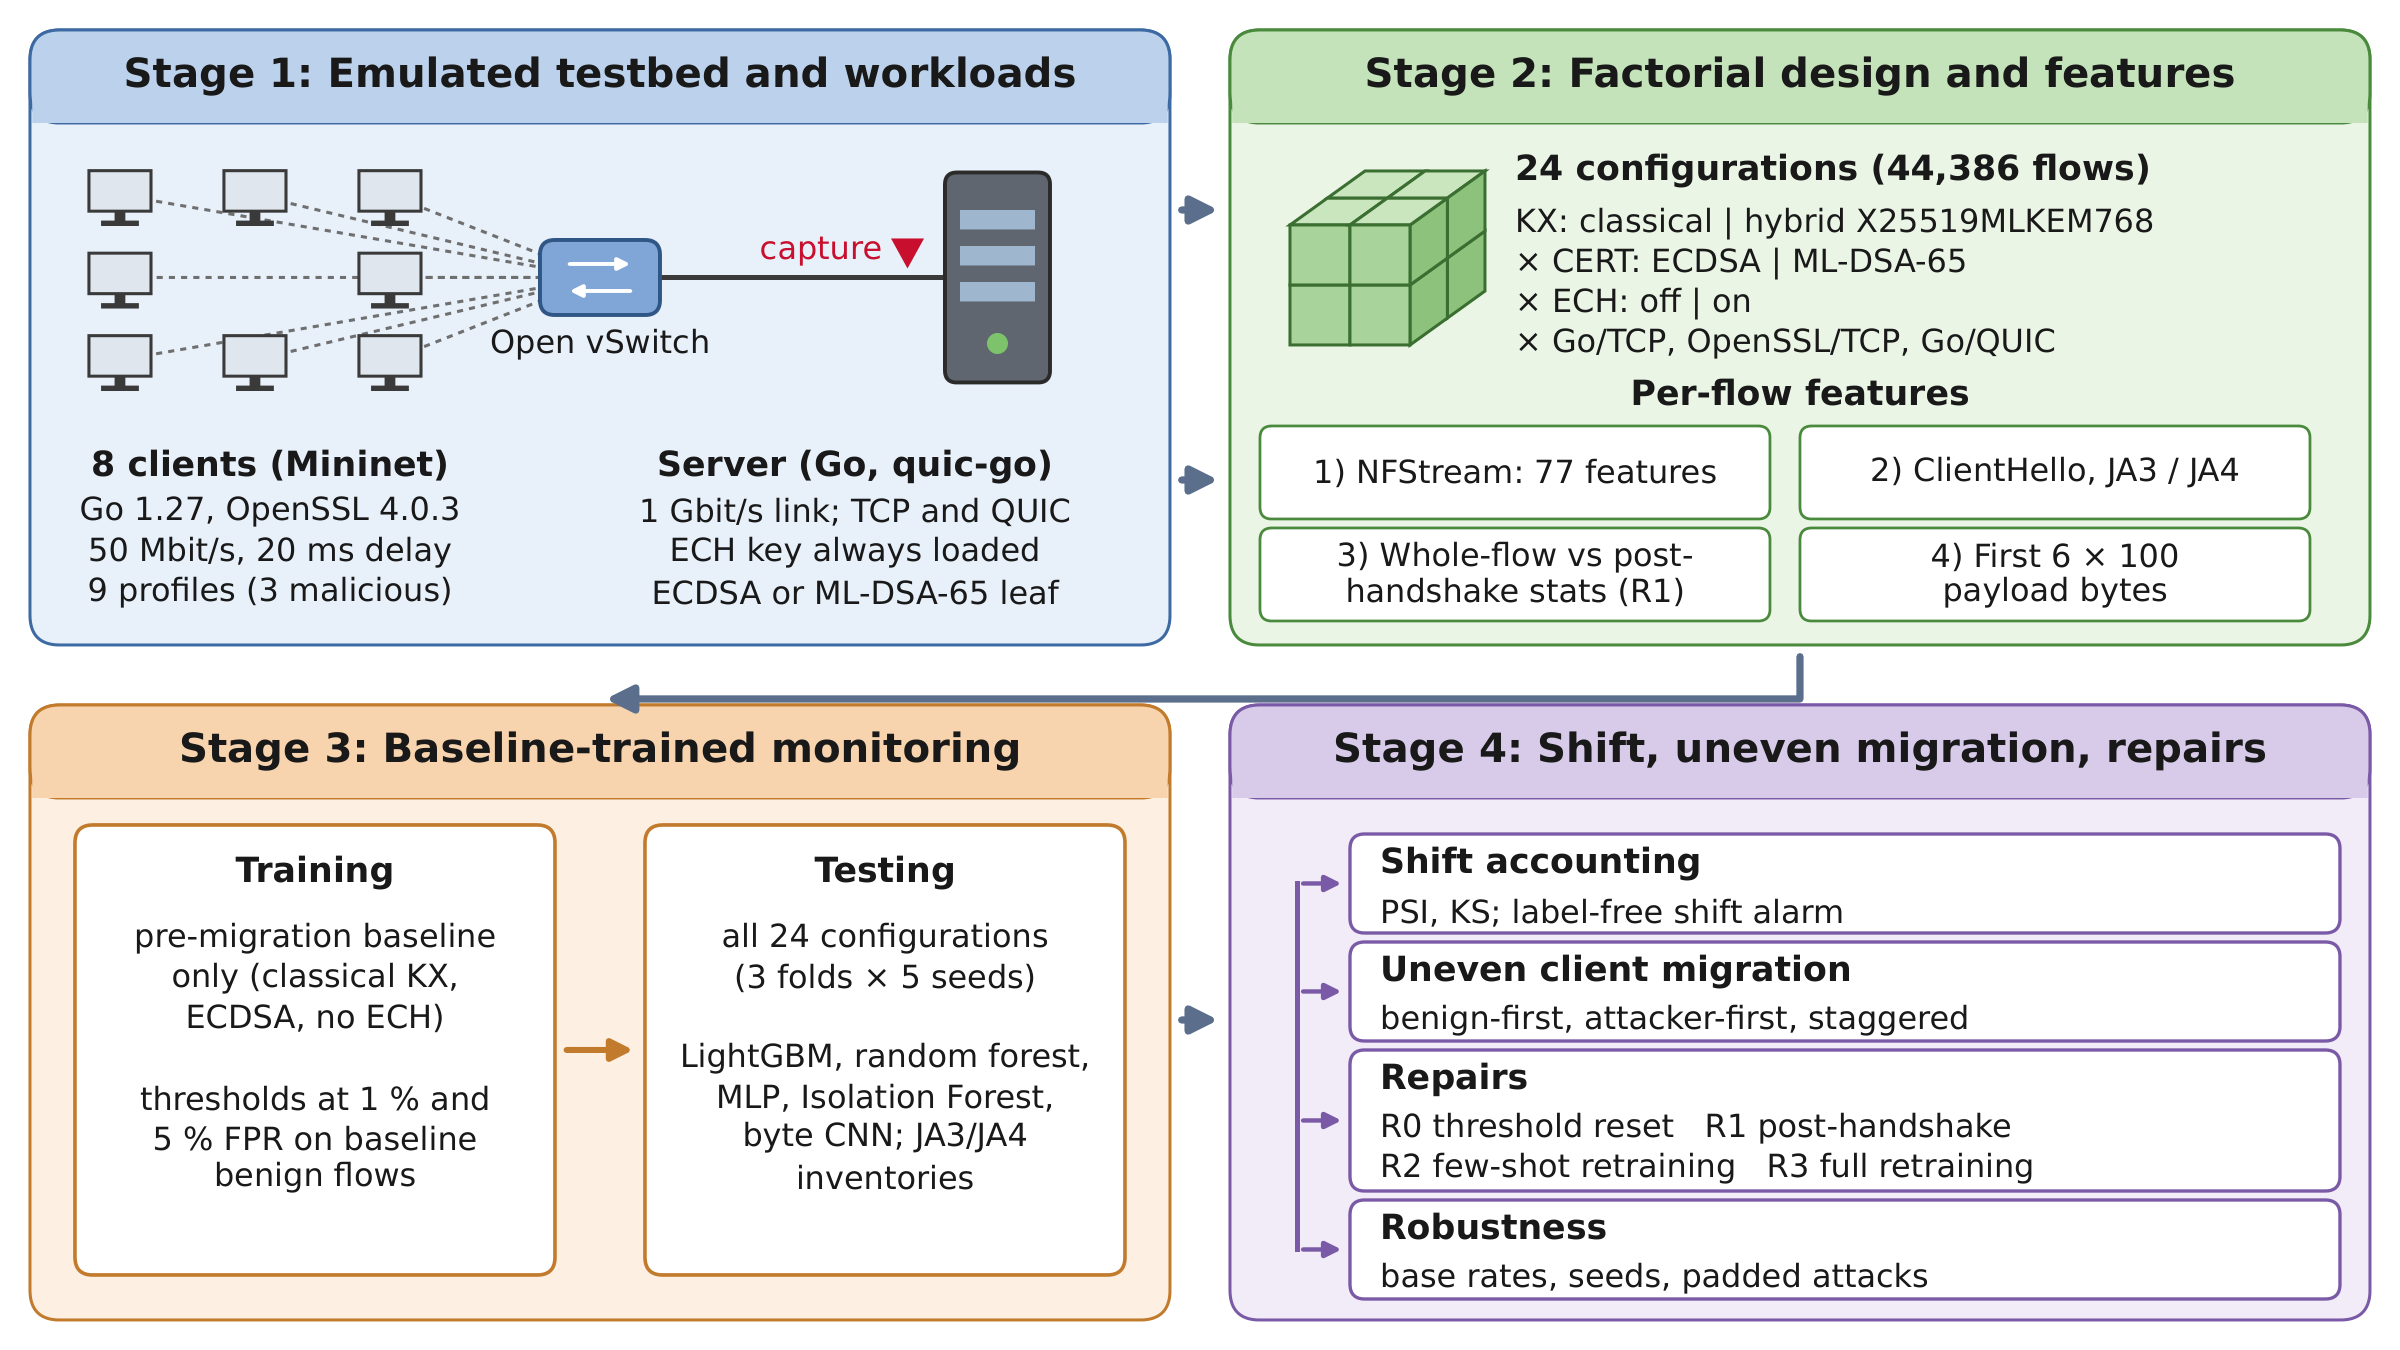
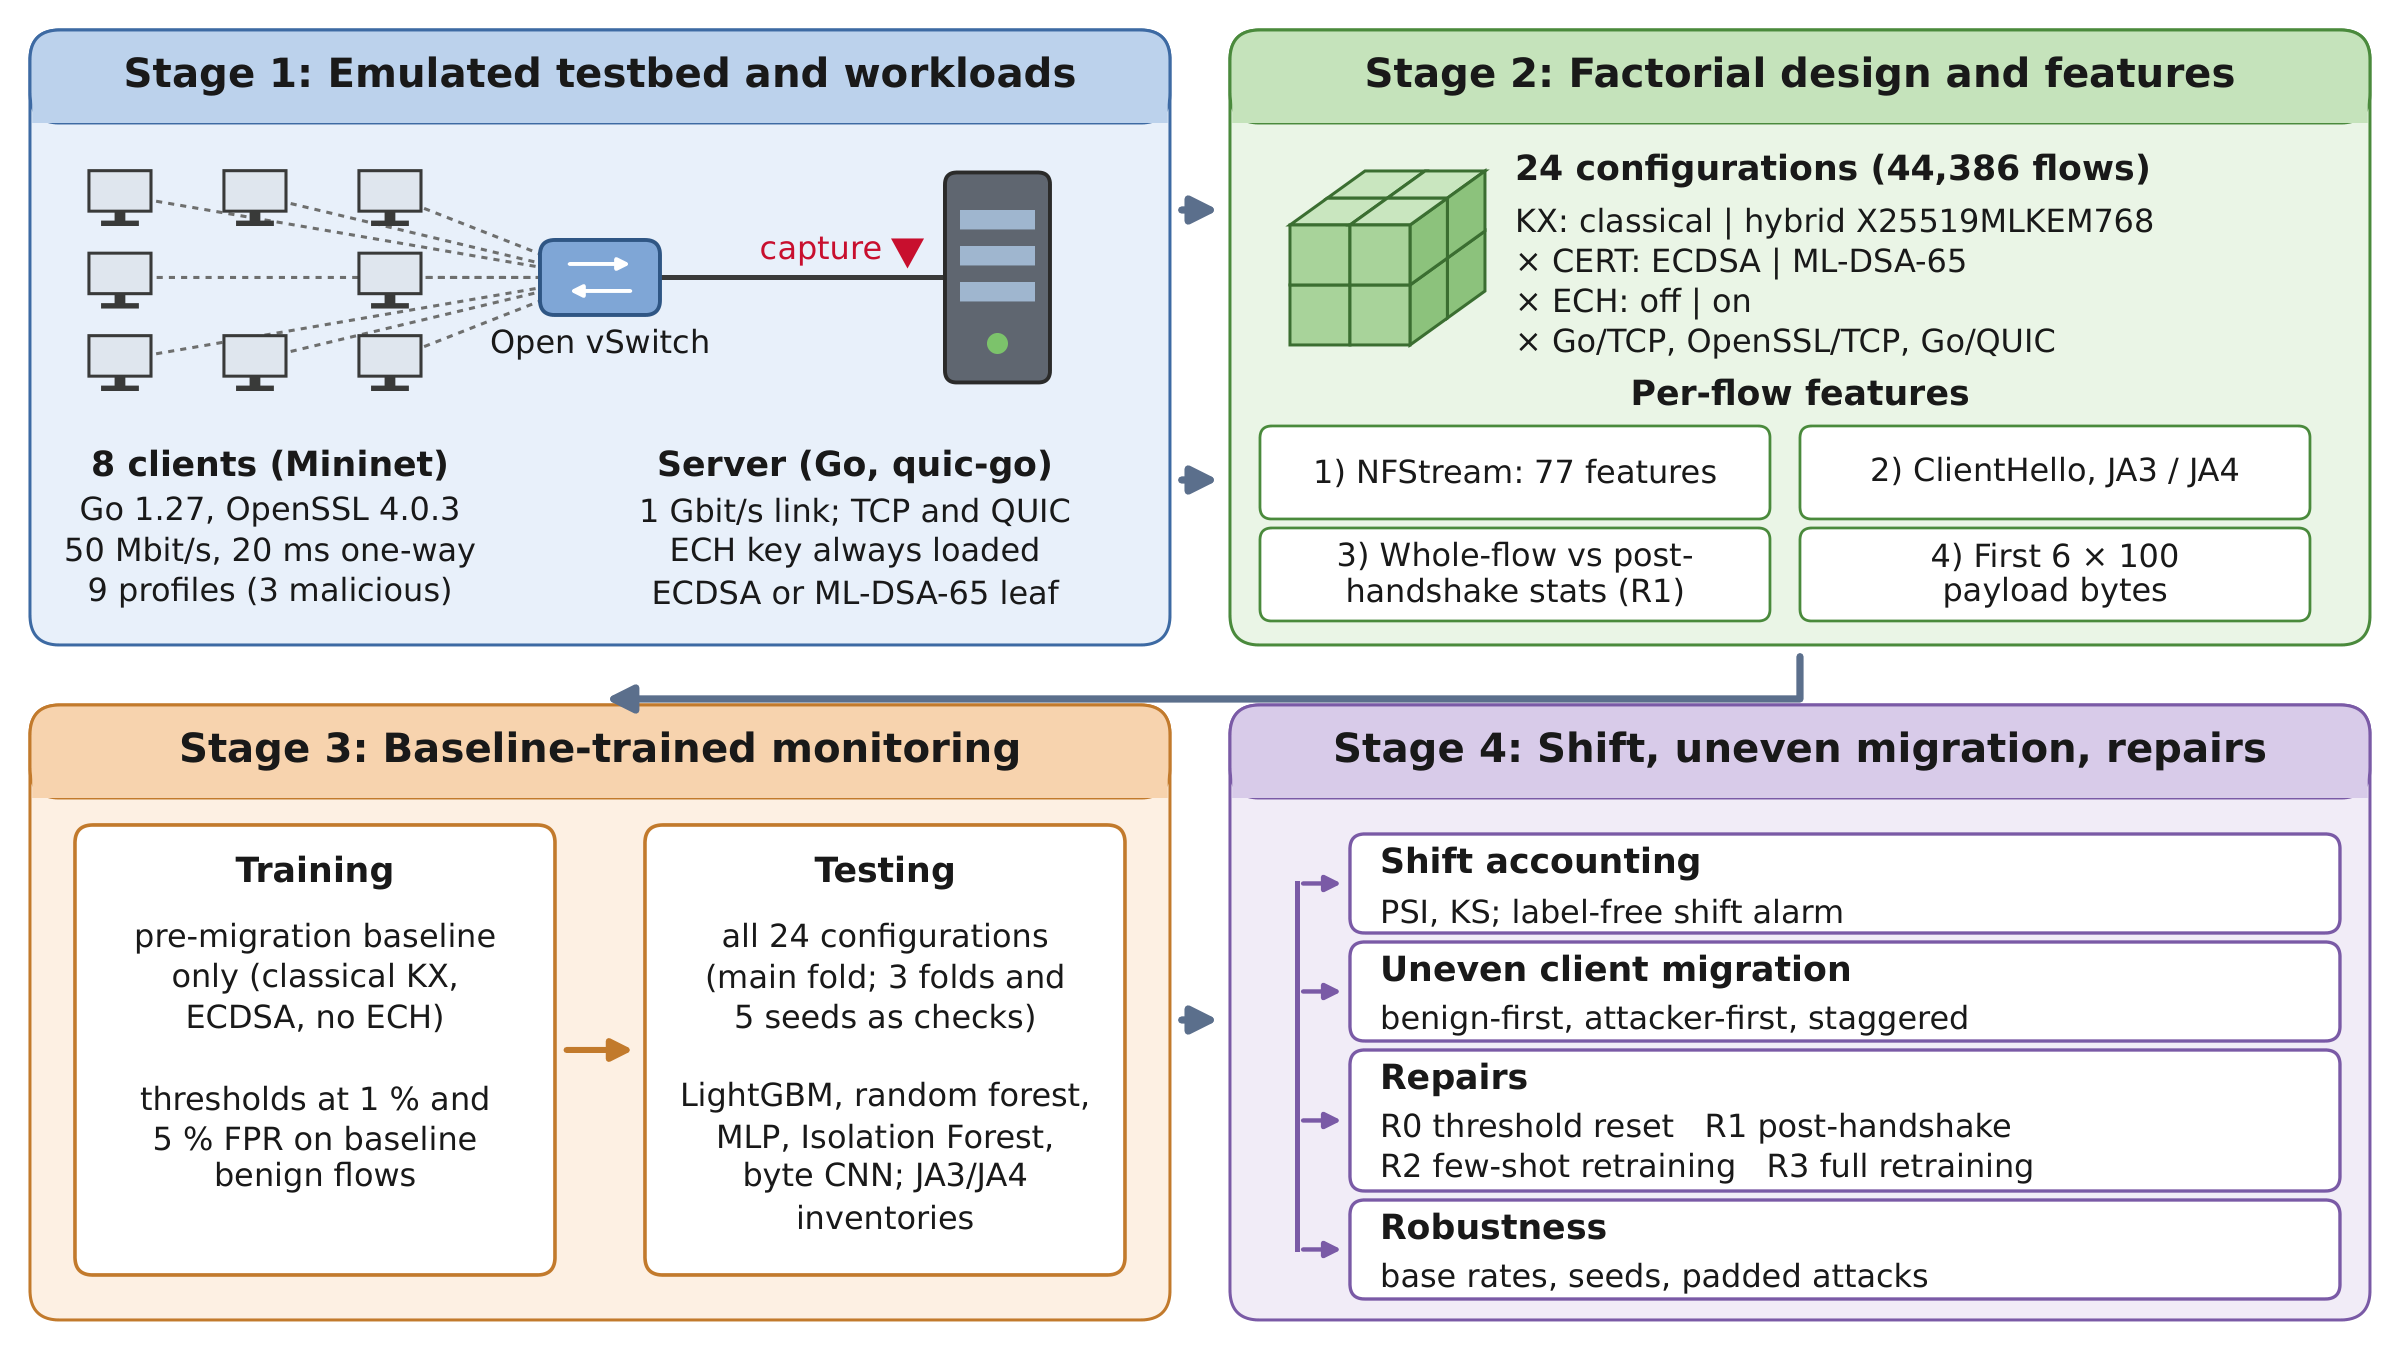
Figure 1 wording; supplementary table labels

Changed region(s): [[0.2812, 0.7156, 0.4688, 0.9333], [0.0312, 0.3733, 0.1875, 0.4356]]

diff --git a/src/b_padding_report.py b/src/b_padding_report.py
@@ -105,7 +105,7 @@ def si_section(t, longtab):
         return ''
     S, folds = s
     rows = []
-    for reg, rn in (('matched', 'trained on the same behaviours'), ('evasion', 'trained on the published behaviours')):
+    for reg, rn in (('matched', 'matched'), ('evasion', 'evasion')):
         for w in (('orig', 'rand', 'mimic') if reg == 'matched' else ('rand', 'mimic')):
             for pipe, pn in (('none', 'none'), ('R1', 'R1')):
                 for m in MK:
@@ -116,11 +116,13 @@ def si_section(t, longtab):
                             xs = [v[met] for v in vs if v[met] is not None]
                             return rng(min(xs), max(xs)) if xs else '--'
                         cells.append(f"{r('recall')} / {r('fpr')} / {r('beacon')} / {r('brute')}")
-                    rows.append(f"{rn} & {w} & {pn} & {MN[m]} & {cells[0]} & {cells[1]}\\\\")
+                    wn = {'orig': 'original', 'rand': 'random', 'mimic': 'benign-sized'}[w]
+                    rows.append(f"{rn} & {wn} & {pn} & {MN[m]} & {cells[0]} & {cells[1]}\\\\")
     return ('\\section*{S11 Padded and benign-sized attacks}' + longtab(
         'llll' + 'rr', 'Training & Attacks & Pipeline & Model & Baseline cells & Migrated cells', rows,
         'Padded and benign-sized attacks: mean over cells of recall / FPR / beacon recall / guessing recall (thresholds at 1\\,\\% FPR), range over '
-        f'{len(folds)} folds. Attacks: orig = published behaviours; rand = beacon with random request padding (0--1,024 B) and '
-        'response size (64--16,384 B), credential guessing with a randomly padded form (0--4,096 B); mimic = beacon with the request '
+        f'{len(folds)} folds. Training: matched = on the same attack set; evasion = on the original behaviours. Attacks: original = '
+        'published behaviours; random = beacon with random request padding (0--1,024 B) and '
+        'response size (64--16,384 B), credential guessing with a randomly padded form (0--4,096 B); benign-sized = beacon with the request '
         'and response sizes of the benign short-connection profile, with the same padded guessing. Scans are unchanged. Benign '
         'flows are the published ones.'))

diff --git a/src/b_fig1.py b/src/b_fig1.py
@@ -72,7 +72,7 @@ def draw(out=P):
                          fc='#c8102e', ec='none', zorder=6))
     ax.text(sx - 4.2, sw[1] + 1.8, 'capture', ha='right', va='center', fontsize=FB, color='#c8102e')
     ax.text(18, 60.0, '8 clients (Mininet)', ha='center', va='top', fontsize=FH, weight='bold', color=INK)
-    ax.text(18, 57.2, 'Go 1.27, OpenSSL 4.0.3\n50 Mbit/s, 20 ms delay\n9 profiles (3 malicious)',
+    ax.text(18, 57.2, 'Go 1.27, OpenSSL 4.0.3\n50 Mbit/s, 20 ms one-way\n9 profiles (3 malicious)',
             ha='center', va='top', fontsize=FB, color=INK, linespacing=1.25)
     ax.text(57, 60.0, 'Server (Go, quic-go)', ha='center', va='top', fontsize=FH, weight='bold', color=INK)
     ax.text(57, 57.2, '1 Gbit/s link; TCP and QUIC\nECH key always loaded\nECDSA or ML-DSA-65 leaf',
@@ -106,7 +106,7 @@ def draw(out=P):
     panel(2, 2, 76, 41, 3, 'Stage 3: Baseline-trained monitoring')
     for x, head, body in ((5, 'Training', 'pre-migration baseline\nonly (classical KX,\nECDSA, no ECH)\n\nthresholds at 1 % and\n'
                                           '5 % FPR on baseline\nbenign flows'),
-                          (43, 'Testing', 'all 24 configurations\n(3 folds × 5 seeds)\n\nLightGBM, random forest,\n'
+                          (43, 'Testing', 'all 24 configurations\n(main fold; 3 folds and\n5 seeds as checks)\n\nLightGBM, random forest,\n'
                                           'MLP, Isolation Forest,\nbyte CNN; JA3/JA4\ninventories')):
         rbox(x, 5, 32, 30, 'white', ST[3][2], lw=1.3, r=1.2, z=2)
         ax.text(x + 16, 31.8, head, ha='center', va='center', fontsize=FH, weight='bold', color=INK, zorder=3)

diff --git a/src/b_robust_report.py b/src/b_robust_report.py
@@ -232,7 +232,7 @@ def si_section(t, longtab):
             for k, kn in (('base', 'none (false alarms)'), ('KX', 'hybrid KX'), ('CERT', 'ML-DSA cert.'), ('ECH', 'ECH'), ('combo', 'combinations')):
                 vals = [sh[f'{test}|{tr}|{k}|{n}'] for n in NS]
                 rows.append(f"{tn} & {tr.upper()} & {kn} & " + ' & '.join(
-                    '--' if v is None else (f'{v[2]:.2f}' if k == 'base' else f'{v[1]:.2f}') for v in vals) + '\\\\')
+                    '--' if v is None else (f'{v[2]:.2f}' if k == 'base' else fl(v[1])) for v in vals) + '\\\\')
     o.append(longtab('lll' + 'r' * len(NS), 'Test & Transport & Migration & ' + ' & '.join(f'$n={n}$' for n in NS), rows,
                      'Shift alarms on unlabelled traffic: share of 300 random windows of $n$ test flows that raise an alarm against the '
                      'baseline\'s training flows (two-sample KS test per feature, Bonferroni $\\alpha=0.01$; or PSI $>0.25$). Migrated '
